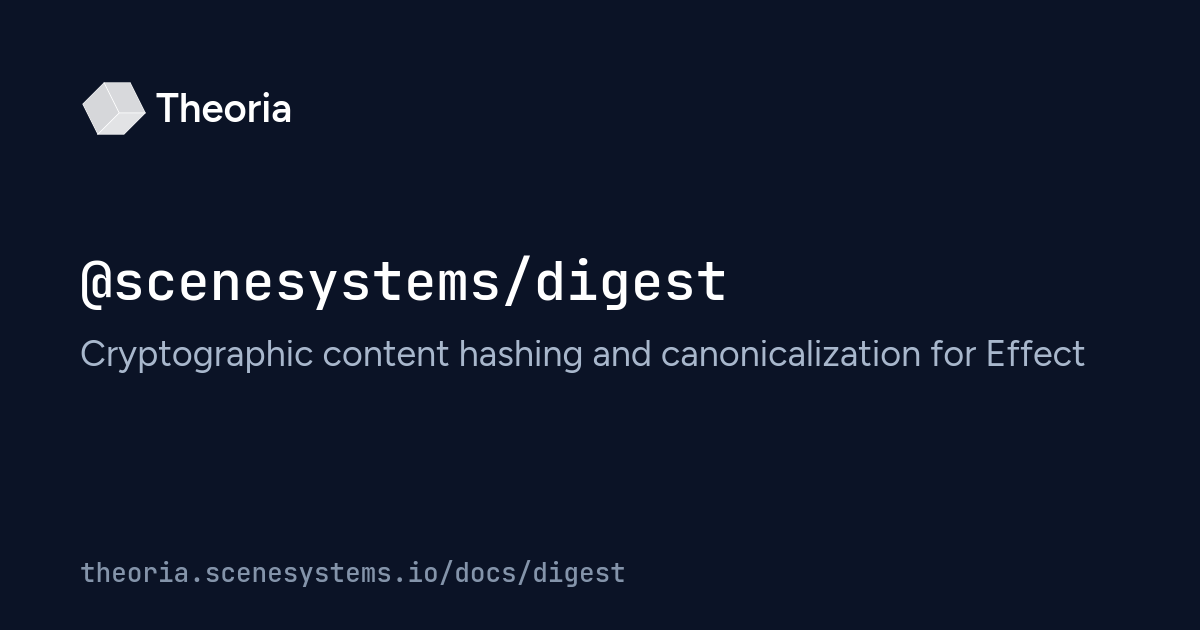
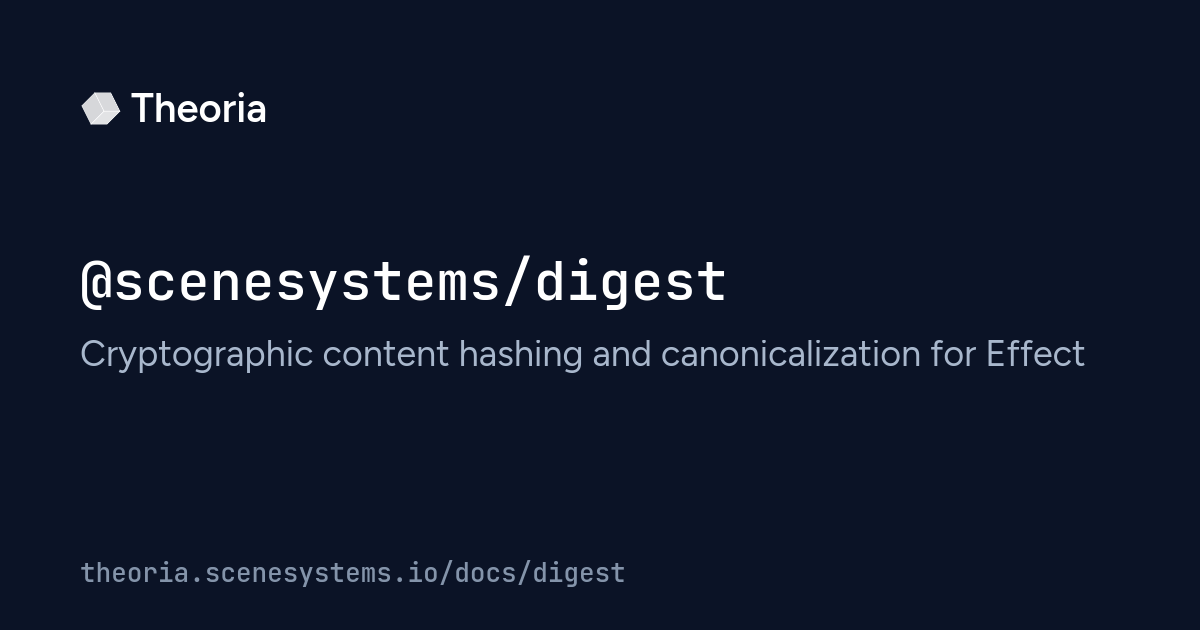
fix(theoria): social card lockup proportions and shorter tagline
- Derive the share-card logo lockup from TheoriaLogo's ratios (mark 0.85em,
  gap 0.25em, centered 0.35em above the baseline) instead of hand-placed sizes.
- Add siteMetadata.tagline for the site card; the long description stays for
  meta tags and the manifest.
- Strip PNG time chunks so gen:social-assets output is reproducible.

Amp-Thread-ID: https://ampcode.com/threads/T-01a061d5-2378-7197-9988-70cc24e4233d

Changed region(s): [[0.0617, 0.1206, 0.2467, 0.2111]]

diff --git a/apps/theoria/scripts/social-assets/cards.ts b/apps/theoria/scripts/social-assets/cards.ts
@@ -111,17 +111,46 @@ const canvas = (width: number, height: number, color: string): ReadonlyArray<str
   `xc:${color}`
 ]
 
-const png8 = (output: string): ReadonlyArray<string> => ["-depth", "8", `PNG24:${output}`]
+/** 8-bit PNG without timestamp chunks, so re-running the generator is byte-for-byte reproducible. */
+const png8 = (output: string): ReadonlyArray<string> => [
+  "-depth",
+  "8",
+  "-define",
+  "png:exclude-chunks=date,time",
+  `PNG24:${output}`
+]
 
 const margin = 80
 const contentWidth = shareCardSize.width - margin * 2
 
-/** The site card: mark, wordmark, tagline, hostname. */
+/**
+ * The same proportions as `TheoriaLogo`: a mark `0.85em` tall, a `0.25em` gap,
+ * and the mark centered on the wordmark's line box. Figtree's ascender (950)
+ * and descender (-250) put that center 0.35em above the baseline, which is also
+ * the midpoint of its 700-unit cap height.
+ */
+const lockup = {
+  markHeight: 0.85,
+  gap: 0.25,
+  center: 0.35
+}
+
+/** The mark-and-wordmark lockup at `fontSize`, with the wordmark baseline at (`x`, `baseline`). */
+const logoLockup = (mark: Mark, fonts: Fonts, x: number, baseline: number, fontSize: number): ReadonlyArray<string> => {
+  const markHeight = fontSize * lockup.markHeight
+  const markWidth = markHeight * (mark.viewBox.width / mark.viewBox.height)
+  const markTop = baseline - fontSize * lockup.center - markHeight / 2
+  return [
+    ...drawMark(mark, palette.ink, x, markTop, markHeight),
+    ...annotate(fonts.sansSemiBold, fontSize, palette.ink, x + markWidth + fontSize * lockup.gap, baseline, "Theoria")
+  ]
+}
+
+/** The site card: logo lockup, a one-line tagline, hostname. */
 export const siteCard = (mark: Mark, fonts: Fonts, tagline: string, host: string, output: string): ReadonlyArray<string> => [
   ...canvas(shareCardSize.width, shareCardSize.height, palette.stage),
-  ...drawMark(mark, palette.ink, 100, 66, 180),
-  ...annotate(fonts.sansSemiBold, 120, palette.ink, 350, 205, "Theoria"),
-  ...paragraph(fonts.sans, 38, palette.inkMuted, margin, 330, contentWidth, 160, tagline),
+  ...logoLockup(mark, fonts, margin, 296, 128),
+  ...annotate(fonts.sans, 44, palette.inkMuted, margin, 384, tagline),
   ...annotate(fonts.mono, 26, palette.inkFaint, margin, 560, host),
   ...png8(output)
 ]
@@ -136,8 +165,7 @@ export const packageCard = (
   output: string
 ): ReadonlyArray<string> => [
   ...canvas(shareCardSize.width, shareCardSize.height, palette.stage),
-  ...drawMark(mark, palette.ink, margin, margin, 56),
-  ...annotate(fonts.sansSemiBold, 40, palette.ink, 156, 122, "Theoria"),
+  ...logoLockup(mark, fonts, margin, 122, 40),
   ...annotate(fonts.mono, 54, palette.ink, margin, 300, packageName),
   ...paragraph(fonts.sans, 36, palette.inkMuted, margin, 340, contentWidth, 150, description),
   ...annotate(fonts.mono, 26, palette.inkFaint, margin, 560, docsUrl),

diff --git a/apps/theoria/app/contracts/metadata.ts b/apps/theoria/app/contracts/metadata.ts
@@ -24,6 +24,8 @@ export const SiteMetadata = Schema.Struct({
   siteUrl: Schema.Literal("https://theoria.scenesystems.io"),
   defaultTitle: Schema.Literal("Theoria — Scene Systems"),
   defaultDescription: NonEmptyString,
+  /** One short line for the site share image; the description carries the detail. */
+  tagline: NonEmptyString,
   twitterHandle: Schema.Literal("@scenesystems"),
   locale: Schema.Literal("en_US"),
   repositoryUrl: Schema.Literal("https://github.com/scenesystems/theoria")
@@ -42,6 +44,7 @@ export const siteMetadata: SiteMetadata = {
   defaultTitle: "Theoria — Scene Systems",
   defaultDescription:
     "Open-source TypeScript libraries for numerics, optimization, language-model programming, text layout, and cryptography, built with Effect.",
+  tagline: "Composable TypeScript libraries, built with Effect.",
   twitterHandle: "@scenesystems",
   locale: "en_US",
   repositoryUrl: "https://github.com/scenesystems/theoria"

diff --git a/apps/theoria/scripts/generate-social-assets.ts b/apps/theoria/scripts/generate-social-assets.ts
@@ -130,7 +130,7 @@ const program = Effect.gen(function*() {
   yield* fileSystem.makeDirectory(path.join(publicRoot, "social"), { recursive: true })
 
   const jobs: ReadonlyArray<ReadonlyArray<string>> = [
-    siteCard(mark, fonts, siteMetadata.defaultDescription, host, "social/theoria.png"),
+    siteCard(mark, fonts, siteMetadata.tagline, host, "social/theoria.png"),
     ...Arr.map(packages, (published) =>
       packageCard(
         mark,
